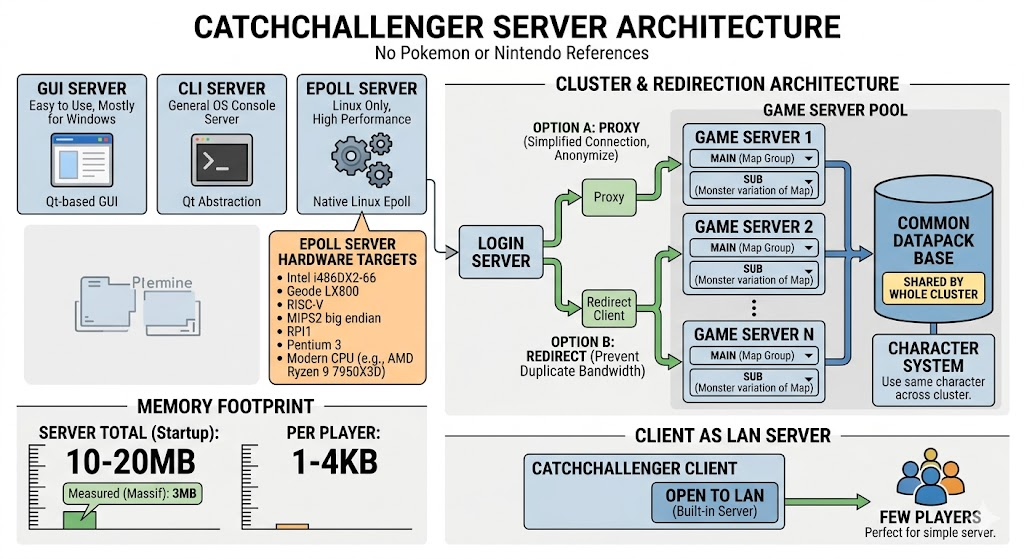
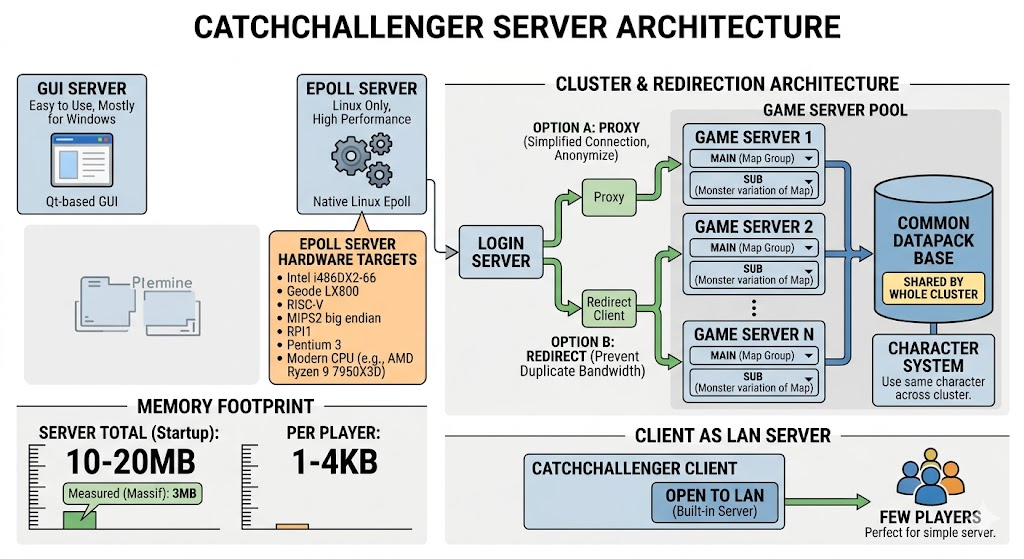
[Improvement] Server GUI: memory baseline, chart preallocation, screenshot
- MainWindow: snapshot RSS once the listener prints "Waiting connection
  on port ..." and report (current - baseline) so the Memory gauge
  shows the running server's footprint, not the GUI's. Reset to "0B"
  on stop. Bump console/analytics block cap 500 -> 1000.
- ChartWidget: reserve(maxPoints) on setSeries so the rolling window
  reuses the same QVector storage instead of growing per tick.
- README: drop stale qmake CLI section and Ubuntu/Debian apt lines
  (covered upstream); rename Epoll header to "Unix only".
- Refresh server.png and add server-gui.png screenshots.

Changed region(s): [[0.125, 0.1216, 0.2812, 0.3953], [0.375, 0.0608, 0.625, 0.1216]]

diff --git a/server/qt/gui/MainWindow.cpp b/server/qt/gui/MainWindow.cpp
@@ -69,7 +69,8 @@ MainWindow::MainWindow(QWidget *parent) :
     tickCount(0),
     lastTickDbQueries_(0),
     lastChartRxBytes_(0),
-    lastChartTxBytes_(0)
+    lastChartTxBytes_(0),
+    memoryBaselineBytes_(-1)
 {
     ui->setupUi(this);
     setupNavigation();
@@ -216,6 +217,9 @@ void MainWindow::onStartStopClicked()
         addAnalyticsLine("Server started", true);
     } else {
         server_.stop_server();
+        // Drop the baseline so Memory gauge falls back to "0B" until
+        // the next listen-ready marker is captured.
+        memoryBaselineBytes_ = -1;
         ui->valueMainServer->setText("Not Running");
         ui->valueMainServer->setStyleSheet("color: #d94a4a;");
         ui->startStopButton->setText("Start");
@@ -278,6 +282,14 @@ void MainWindow::onTimerTick()
         // glance.
         auto logs = CatchChallenger::gui_log::drain_classified_lines();
         for (const auto &l : logs) {
+            // The TCP listener emits "Waiting connection on port ..." once
+            // it's actually bound — that's the moment after which any
+            // further heap growth is attributable to the running server,
+            // so it's the right point to snapshot the baseline.
+            if (memoryBaselineBytes_ < 0 &&
+                l.text.find("Waiting connection on port") != std::string::npos) {
+                memoryBaselineBytes_ = getMemoryUsage();
+            }
             const QString text = QString::fromStdString(l.text).toHtmlEscaped();
             if (l.is_err)
                 addConsoleLine(QString("<span style='color: #d94a4a'>%1</span>").arg(text));
@@ -337,8 +349,13 @@ void MainWindow::updateDashboard()
     ui->progressDbQuery->setValue(dbQueryCount);
     ui->progressDbQuery->setBarColor(QColor(74, 144, 217));
 
-    qint64 memBytes = getMemoryUsage();
-    ui->valueMemory->setText(formatBytes(memBytes > 0 ? memBytes : static_cast<qint64>(1.5 * 1024 * 1024)));
+    if (memoryBaselineBytes_ < 0) {
+        ui->valueMemory->setText("0B");
+    } else {
+        qint64 memDelta = getMemoryUsage() - memoryBaselineBytes_;
+        if (memDelta < 0) memDelta = 0;
+        ui->valueMemory->setText(formatBytes(memDelta));
+    }
 
     if (serverRunning) {
         // Average player latency from the engine's RTT tracker.  0ms
@@ -381,7 +398,7 @@ void MainWindow::updateUptime()
 
 void MainWindow::addConsoleLine(const QString &text, bool bold)
 {
-    ui->textEditConsole->document()->setMaximumBlockCount(500);
+    ui->textEditConsole->document()->setMaximumBlockCount(1000);
 
     QString time = QTime::currentTime().toString("HH:mm:ss");
     QString line = QString("<span style='color: grey'>[%1]</span> %2").arg(time).arg(text);
@@ -403,7 +420,7 @@ void MainWindow::addConsoleLine(const QString &text, bool bold)
 
 void MainWindow::addAnalyticsLine(const QString &text, bool bold)
 {
-    ui->textEditAnalytics->document()->setMaximumBlockCount(500);
+    ui->textEditAnalytics->document()->setMaximumBlockCount(1000);
 
     QTextCursor cursor(ui->textEditAnalytics->document());
     cursor.movePosition(QTextCursor::End);

diff --git a/server/qt/gui/ChartWidget.cpp b/server/qt/gui/ChartWidget.cpp
@@ -20,7 +20,19 @@ ChartWidget::ChartWidget(QWidget *parent)
 
 void ChartWidget::setTitle(const QString &t) { title = t; update(); }
 
-void ChartWidget::setSeries(const QVector<ChartSeries> &s) { series = s; update(); }
+void ChartWidget::setSeries(const QVector<ChartSeries> &s) {
+    series = s;
+    // Preallocate the rolling-window buffer so the heap doesn't grow
+    // tick-by-tick as values stream in.  Reaching maxPoints capacity
+    // up front means addDataPoint()'s append+remove(0) reuses the same
+    // storage forever.
+    int i = 0;
+    while (i < series.size()) {
+        series[i].values.reserve(maxPoints);
+        ++i;
+    }
+    update();
+}
 
 void ChartWidget::setUnitSuffix(const QString &suffix) { unitSuffix = suffix; update(); }
 

diff --git a/server/qt/gui/MainWindow.hpp b/server/qt/gui/MainWindow.hpp
@@ -58,6 +58,7 @@ private:
     uint64_t lastTickDbQueries_;
     uint64_t lastChartRxBytes_;
     uint64_t lastChartTxBytes_;
+    qint64 memoryBaselineBytes_;
 
     void setupNavigation();
     void setupCharts();

diff --git a/server/README.md b/server/README.md
@@ -8,19 +8,9 @@ make
 git clone --depth=1 https://github.com/alphaonex86/CatchChallenger-datapack datapack
 ```
 
-# CLI server
-```sh
-cd server/
-qmake catchchallenger-server-cli.pro
-make
-git clone --depth=1 https://github.com/alphaonex86/CatchChallenger-datapack datapack
 ```
 
-# Epoll server (linux only, high performance)
-**Ubuntu**: apt-get install libzstd-dev zlib1g-dev libssl-dev libpq-dev
-
-**Debian stretch**: apt-get install build-essential gcc automake qt5-qmake libzstd-dev zlib1g-dev libssl-dev libpq-dev qttools5-dev
-
+# Epoll server (Unix only, was only Linux)
 ```sh
 cd server/
 qmake catchchallenger-server-cli-epoll.pro